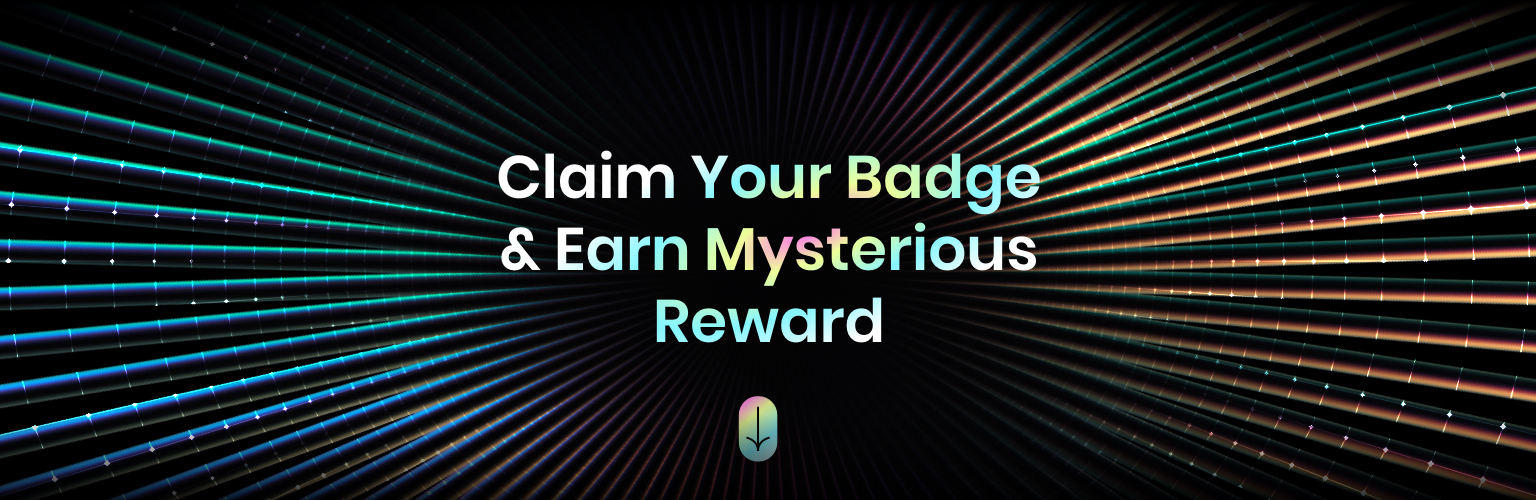
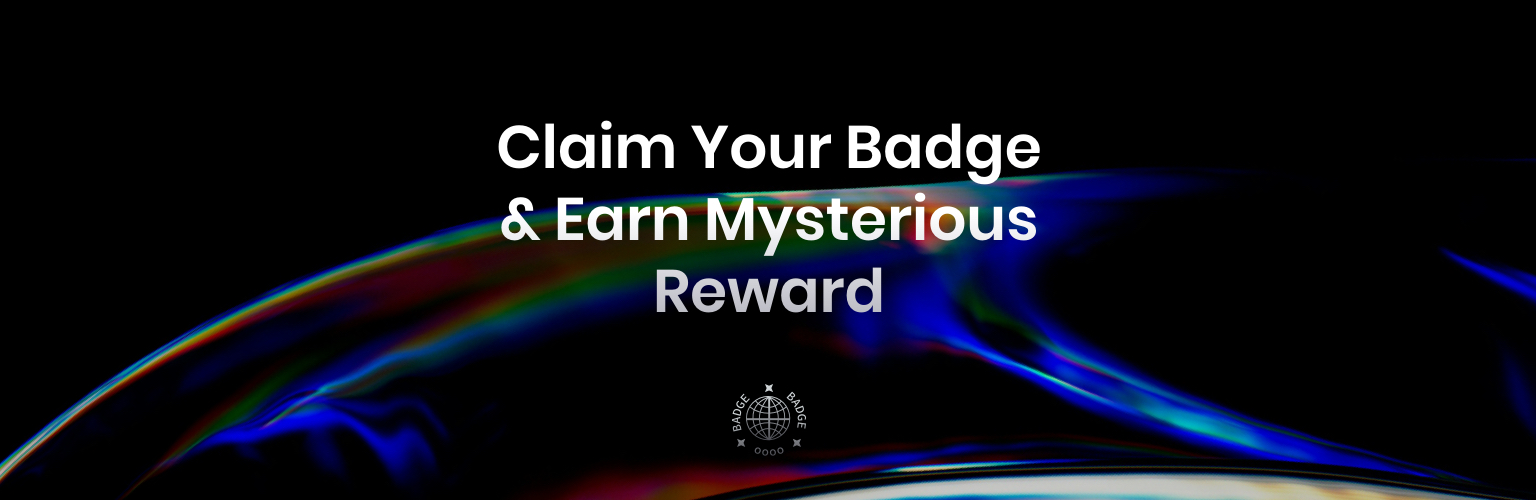
fix: update badge header image (#217)
* fix: update badge header image

* fix: badge name not be in center error

* fix: open badges entrance

diff --git a/src/components/layout/Layout.vue b/src/components/layout/Layout.vue
@@ -26,23 +26,22 @@ const menus = [
       }
     ]
   },
-  // TODO: temporarily hide badge
-  // {
-  //   name: 'BADGE 🔥',
-  //   ...(import.meta.env.VITE_MODE === 'testnet'
-  //     ? {
-  //       tag: 'a',
-  //       attributes: {
-  //         href: 'https://bridge.oooo.money/badges'
-  //       }
-  //     }
-  //     : {
-  //       tag: 'router-link',
-  //       attributes: {
-  //         to: '/badges'
-  //       }
-  //     })
-  // },
+  {
+    name: 'BADGE 🔥',
+    ...(import.meta.env.VITE_MODE === 'testnet'
+      ? {
+        tag: 'a',
+        attributes: {
+          href: 'https://bridge.oooo.money/badges'
+        }
+      }
+      : {
+        tag: 'router-link',
+        attributes: {
+          to: '/badges'
+        }
+      })
+  },
   {
     name: 'DOCS',
     tag: 'a',

diff --git a/src/pages/badge/components/Categories/BadgeModal.vue b/src/pages/badge/components/Categories/BadgeModal.vue
@@ -59,7 +59,7 @@ const onMint = async () => {
           :src="badge.icon"
         >
         <div>
-          <p class="text-[16px] md:text-[24px] font-[500]">
+          <p class="text-[16px] md:text-[24px] font-[500] text-center">
             {{ badge.name }}
           </p>
           <div class="mt-[16px] md:mt-[8px] flex justify-center md:justify-normal gap-[4px]">

diff --git a/src/pages/badge/components/Categories/Badge.vue b/src/pages/badge/components/Categories/Badge.vue
@@ -39,7 +39,7 @@ export interface UnmintBadge extends Badge {
       :src="badge.icon"
     >
     <div class="flex flex-col md:items-center gap-[8px] md:gap-[16px]">
-      <p class="text-[18px]">
+      <p class="text-[18px] text-center">
         {{ badge.name }}
       </p>
       <!-- <p class="mt-[8px] text-[#787878] text-[12px]">
